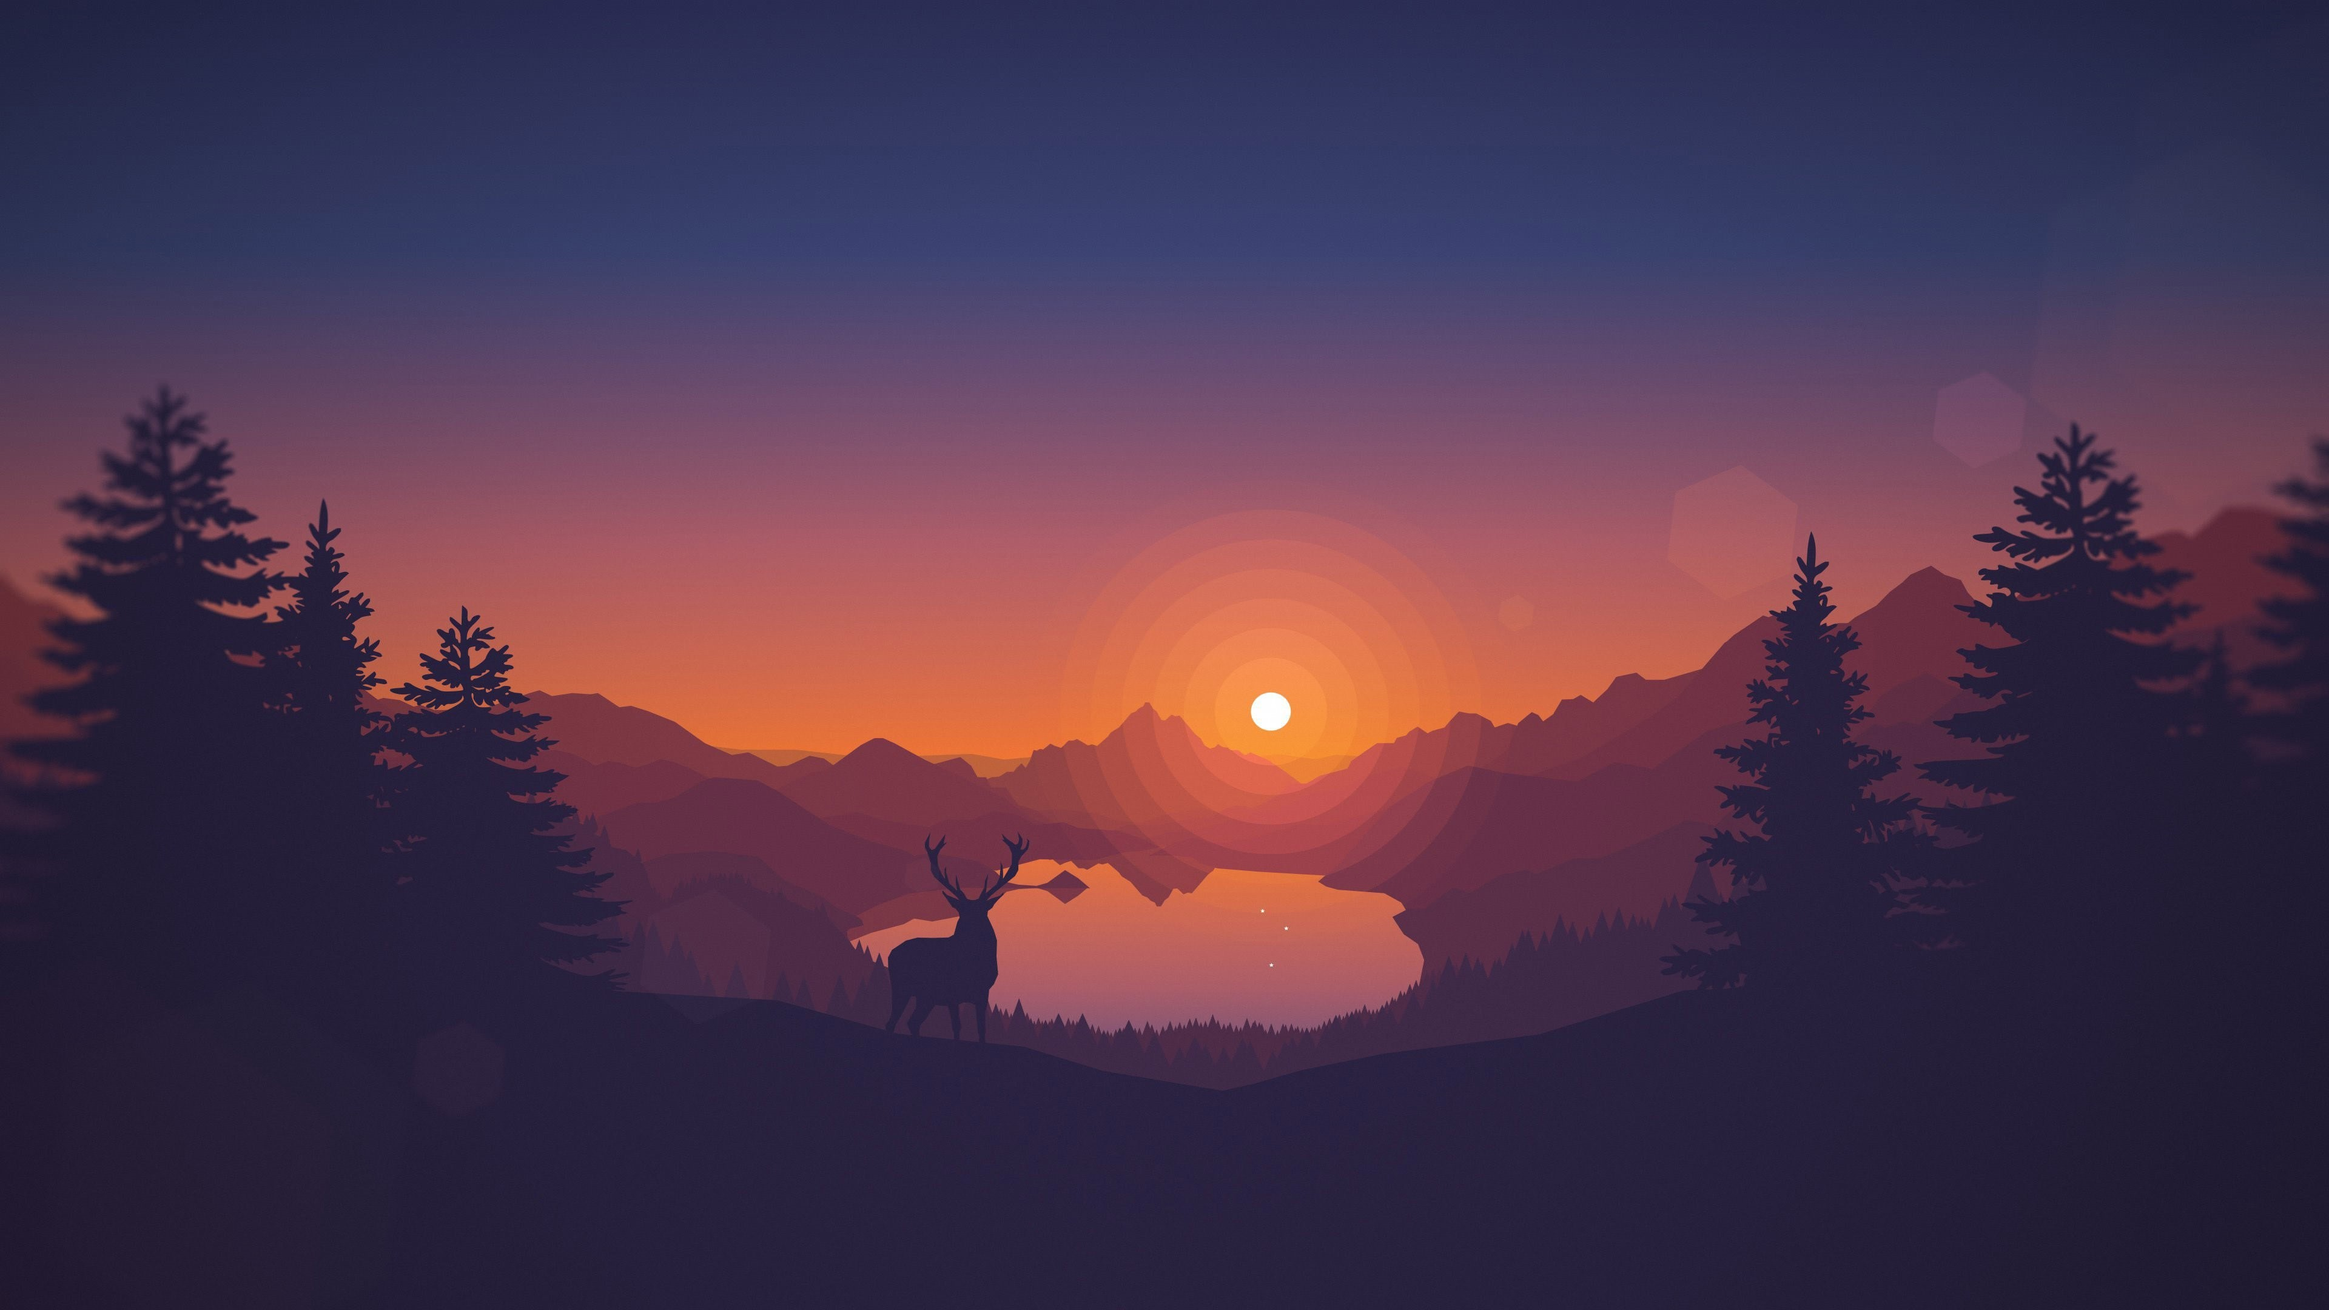
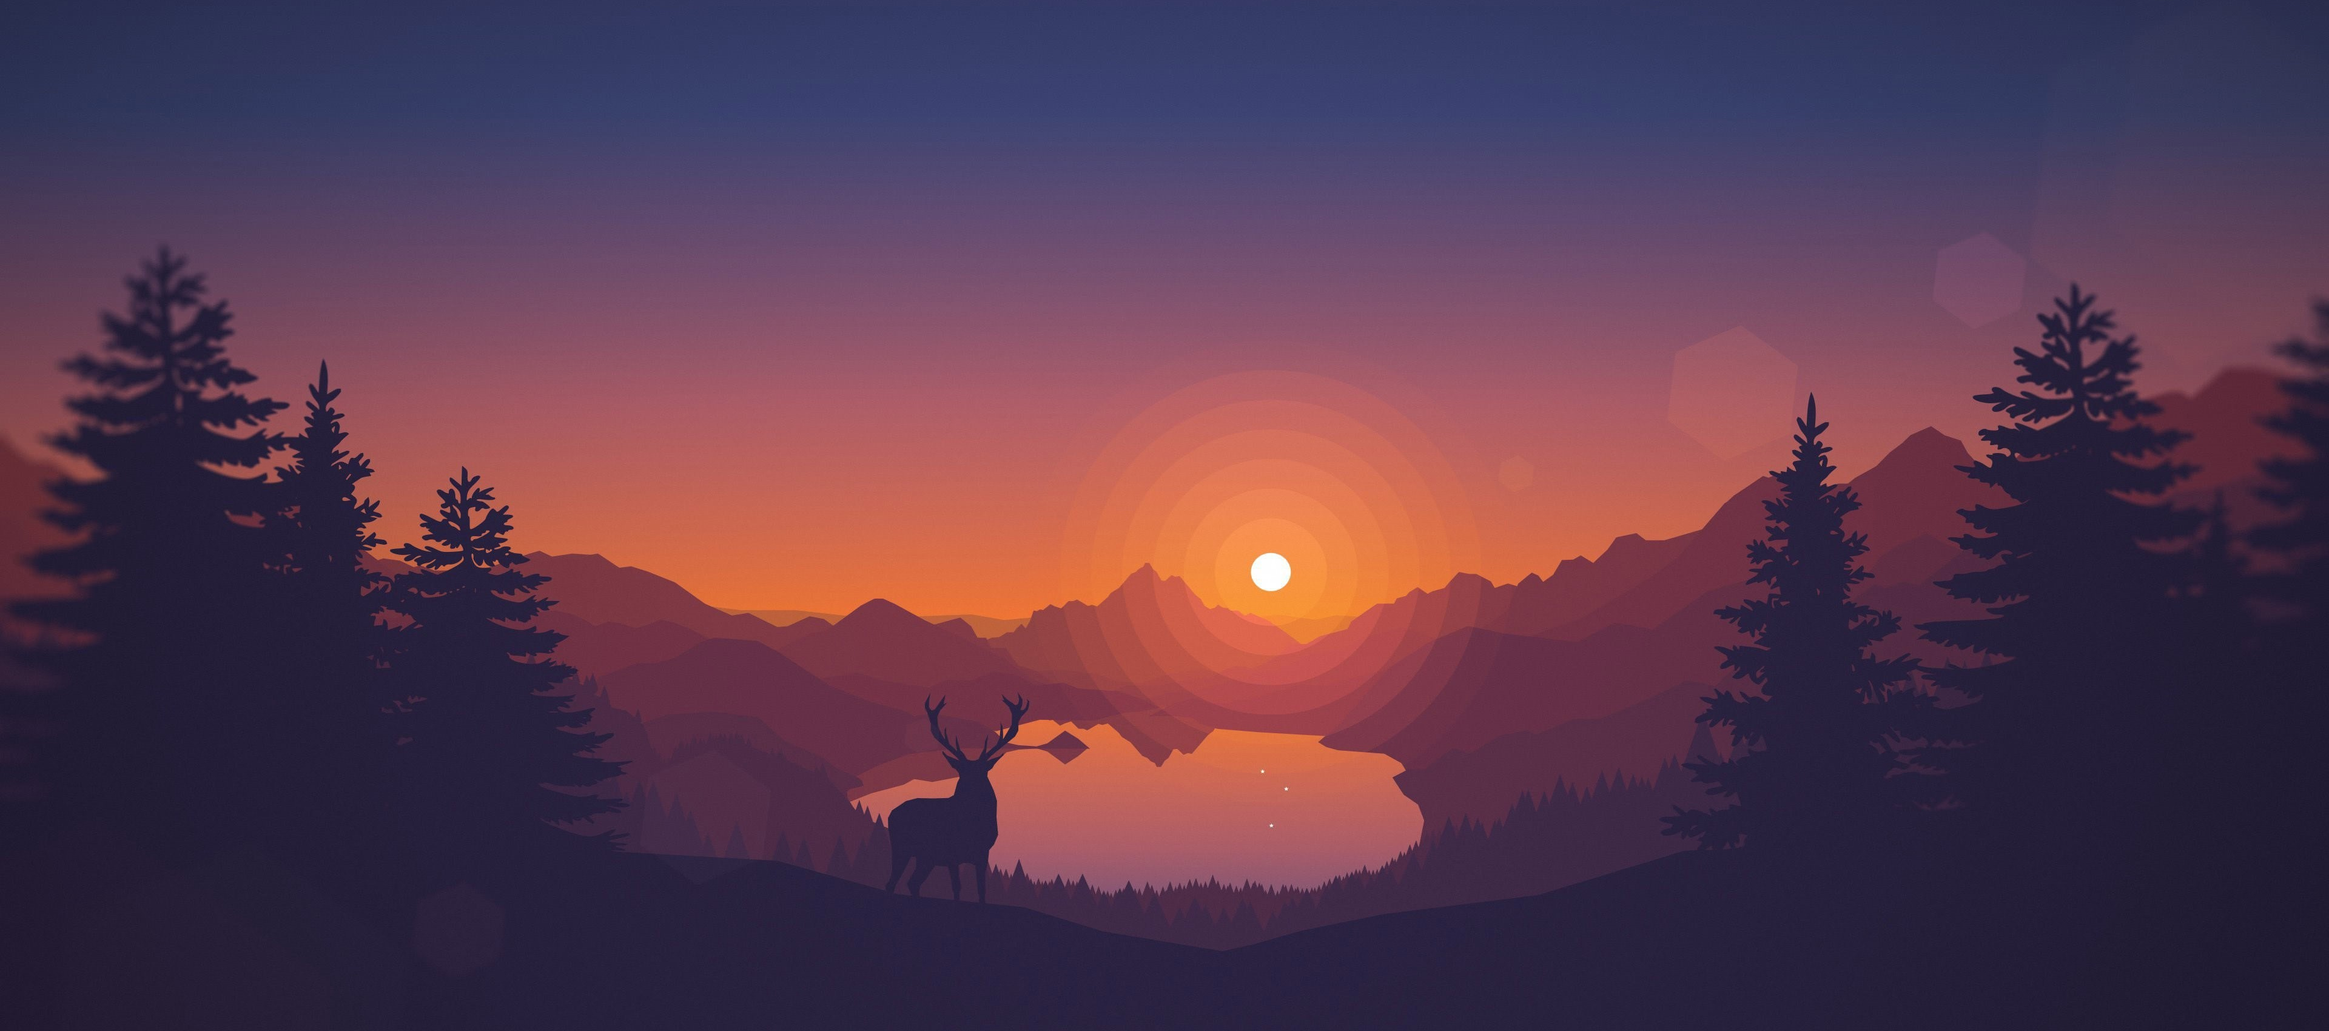
remove unnessecary code, tried to fix background image, made repeatable numbers into variables,qol improvments

diff --git a/style.css b/style.css
@@ -1,1 +1,1 @@
-@font-face{font-family:"Roboto Condensed";src:url(assets/fonts/RobotoCondensed-Regular.ttf)}@font-face{font-family:"Righteous";src:url(assets/fonts/Righteous-Regular.ttf)}#page,#subpage{display:flex;flex-direction:column;margin-top:0;background-attachment:fixed}#page{color:#dee0f7;text-align:center;font-family:"Roboto Condensed",Arial,sans-serif}#home-header #header{align-items:center;justify-content:center;display:flex;flex-direction:row;padding:1vw 0 5vw 0;top:0;column-gap:5vw;text-decoration:none;text-align:center;min-width:150px}.btn{color:#dee0f7;text-decoration:none}.btn:hover{text-decoration:underline}#home-button-left{margin-right:10vw;font-size:32px;max-width:70px;padding:15px 25px;text-align:center;font-family:Righteous,Arial,sans-serif}@media(max-width: 450px){#home-button-left{align-self:flex-start}}#home-button-right{margin-left:10vw;color:#0c070d;padding:15px 25px;border-radius:25px;text-align:center;align-self:center;justify-self:center;background-color:#dee0f7}@media(max-width: 450px){#home-button-right{align-self:flex-end}}#home-button-left,#home-button-right{display:flex !important;flex-direction:row !important}body{background-color:#b5aed6;margin:0;font-size:18px}.logo{position:fixed;bottom:0;left:0;z-index:1000;margin:5px;background-color:transparent;width:40px}.rotate{transition:transform ease-in-out .2s}.rotate:hover{transition:.7s;-webkit-transition:.7s;-moz-transition:.7s;-ms-transition:.7s;-o-transition:.7s;-webkit-transform:rotate(180deg);-moz-transform:rotate(180deg);-o-transform:rotate(180deg);-ms-transform:rotate(180deg);transform:scale(1.1) rotate(360deg)}#backtotop{position:fixed;bottom:0;right:0;margin:15px;z-index:100;transition:ease 300ms}footer{position:initial;right:0;bottom:0;left:0;padding:2.5rem;margin:fill;font-family:"Roboto Condensed",arial,sans-serif;color:#dee0f7;text-align:center;background-color:#b5aed6}.icon{align-content:center;text-align:center;align-self:center;align-items:center}a{user-select:none;-moz-user-select:none;-ms-user-select:none;-webkit-user-select:none}*{scroll-behavior:smooth}#background{object-fit:contain;position:fixed;left:50%;transform:translate(-50%, 0);z-index:-1;min-width:100%;height:81vh;margin:0}@media(max-height: 800px){#background{max-width:100%;height:unset}}@media(min-width: 2000px){#background{width:100%;height:unset;object-fit:fill}}#home-headline{font-family:Righteous,Arial,sans-serif;font-size:60px}#home-infobox{margin:0 0 11.5vw 0}#home-info{margin:5vh 30% 0 30%;mix-blend-mode:normal}@media(max-width: 450px){#home-info{margin:5vh 10% 0 10%}}.subjectbtn{display:inline-block;color:#0c070d;background-color:#dee0f7;margin:25px;padding:15px 50px;min-width:5vw;border-radius:25px;text-decoration:none}@media(max-width: 410px){.subjectbtn{margin:10px}}.subjectbtn:hover{text-decoration:underline}.home-sections-light{display:flex;max-height:500px;padding:90px;text-align:center;align-items:center;background-color:#b5aed6}@media(max-width: 1050px){.home-sections-light{padding:25px 0;max-height:20000px}}@media(max-width: 800px){.home-sections-light{flex-direction:column;padding:0;max-height:20000px}}@media(max-width: 430px){.home-sections-light{flex-direction:column;padding:25px;margin:0}}@media(min-width: 2000px){.home-sections-light{padding:125px 20vw}}.home-sections-dark{display:flex;max-height:500px;padding:90px;text-align:center;align-items:center;background-color:#9c92c8}@media(max-width: 1050px){.home-sections-dark{padding:25px 0;max-height:20000px}}@media(max-width: 800px){.home-sections-dark{flex-direction:column-reverse;padding:0;max-height:20000px}}@media(max-width: 430px){.home-sections-dark{flex-direction:column-reverse;padding:25px;margin:0}}@media(min-width: 2000px){.home-sections-dark{padding:125px 20vw}}.home-sections-light *,.home-sections-dark *{margin:0 90px}@media(max-width: 1400px){.home-sections-light *,.home-sections-dark *{padding:25px 0;margin:0 7vw;max-height:20000px}}@media(max-width: 800px){.home-sections-light *,.home-sections-dark *{flex-direction:column;padding:25px 0;margin:0 10vw;max-height:20000px}}@media(max-width: 430px){.home-sections-light *,.home-sections-dark *{flex-direction:column;padding:25px;margin:0}}.home-sections-light p,.home-sections-dark p{display:flex;flex-direction:column;align-items:center}.home-sections-light p .home-sections-button,.home-sections-dark p .home-sections-button{margin:20px 0;text-align:center;max-width:100px;min-width:75px;border-radius:2147483647px}@media(max-width: 1400px){.home-sections-light p .home-sections-button,.home-sections-dark p .home-sections-button{padding:15px 50px}}.home-sections-title{color:#594b95;font-size:22px;margin:0 0 20px 0}.home-sections-img{stroke:#594b95;stroke-width:400px;max-width:400px;aspect-ratio:1/1}.home-sections-dark img,.home-sections-light img{width:400px;border-radius:10px}@media(max-width: 500px){.home-sections-dark img,.home-sections-light img{width:200px}}/*# sourceMappingURL=style.css.map */
+@font-face{font-family:"Roboto Condensed";src:url(assets/fonts/RobotoCondensed-Regular.ttf)}@font-face{font-family:"Righteous";src:url(assets/fonts/Righteous-Regular.ttf)}#page,#subpage{display:flex;flex-direction:column;margin-top:0;background-attachment:fixed}#page{color:#dee0f7;text-align:center;font-family:"Roboto Condensed",Arial,sans-serif}#home-header #header{display:flex;align-items:center;justify-content:center;padding:1vw 0 5vw;column-gap:6rem;text-decoration:none;text-align:center;min-width:150px;max-width:2147483647px}@media(max-width: 500px){#home-header #header{flex-direction:column-reverse;align-items:flex-start;justify-content:flex-start}}.btn{color:#dee0f7;text-decoration:none}.btn:hover{text-decoration:underline}#home-button-left{margin-right:12.5rem;font-size:32px;max-width:70px;padding:15px 25px;text-align:center;font-family:Righteous,Arial,sans-serif}#home-button-right{margin-left:12.5rem;color:#0c070d;padding:15px 25px;border-radius:25px;text-align:center;background-color:#dee0f7}#home-button-left,#home-button-right{display:flex !important;flex-direction:row !important}body{background-color:#b5aed6;margin:0;font-size:18px}.logo{position:fixed;bottom:0;left:0;z-index:1000;margin:5px;background-color:transparent;width:40px}.rotate{transition:transform ease-in-out .2s}.rotate:hover{transition:.7s;-webkit-transition:.7s;-moz-transition:.7s;-ms-transition:.7s;-o-transition:.7s;-webkit-transform:rotate(180deg);-moz-transform:rotate(180deg);-o-transform:rotate(180deg);-ms-transform:rotate(180deg);transform:scale(1.1) rotate(360deg)}#backtotop{position:fixed;bottom:0;right:0;margin:15px;z-index:100;transition:ease 300ms}footer{position:initial;right:0;bottom:0;left:0;padding:2.5rem;margin:fill;font-family:"Roboto Condensed",arial,sans-serif;color:#dee0f7;text-align:center;background-color:#b5aed6}.icon{align-content:center;text-align:center;align-self:center;align-items:center}a{user-select:none;-moz-user-select:none;-ms-user-select:none;-webkit-user-select:none}*{scroll-behavior:smooth}#background{display:flex;align-self:center;position:fixed;z-index:-1;width:100%;aspect-ratio:16/9}@media(max-height: 800px){#background{max-width:100%;height:unset}}@media(min-width: 2000px){#background{margin:-250px 0 0 0}}@media(max-width: 800px){#background{width:unset;height:80vh}}@media(max-width: 500px){#background{width:unset;height:100vh}}#home-headline{font-family:Righteous,Arial,sans-serif;font-size:60px}#home-infobox{margin:0 0 11.5vw 0}#home-info{margin:5vh 30% 0 30%;mix-blend-mode:normal}@media(max-width: 500px){#home-info{margin:5vh 10% 0 10%}}.subjectbtn{display:inline-block;color:#0c070d;background-color:#dee0f7;margin:25px;padding:15px 50px;min-width:5vw;border-radius:25px;text-decoration:none}@media(max-width: 500px){.subjectbtn{margin:10px}}.subjectbtn:hover{text-decoration:underline}.home-sections-light{display:flex;max-height:500px;padding:80px 180px;text-align:center;align-items:center;background-color:#b5aed6}@media(max-width: 1050px){.home-sections-light{padding:25px 0;max-height:20000px}}@media(max-width: 800px){.home-sections-light{flex-direction:column;padding:0;max-height:20000px}}@media(max-width: 500px){.home-sections-light{flex-direction:column;padding:25px;margin:0}}@media(min-width: 2000px){.home-sections-light{padding:125px 20vw}}.home-sections-dark{display:flex;max-height:500px;padding:80px 180px;text-align:center;align-items:center;background-color:#9c92c8}@media(max-width: 1050px){.home-sections-dark{padding:25px 0;max-height:20000px}}@media(max-width: 800px){.home-sections-dark{flex-direction:column-reverse;padding:0;max-height:20000px}}@media(max-width: 500px){.home-sections-dark{flex-direction:column-reverse;padding:25px;margin:0}}@media(min-width: 2000px){.home-sections-dark{padding:125px 20vw}}.home-sections-light *,.home-sections-dark *{margin:0 90px}@media(max-width: 1400px){.home-sections-light *,.home-sections-dark *{padding:25px 0;margin:0 7vw;max-height:20000px}}@media(max-width: 800px){.home-sections-light *,.home-sections-dark *{flex-direction:column;padding:25px 0;margin:0 10vw;max-height:20000px}}@media(max-width: 500px){.home-sections-light *,.home-sections-dark *{flex-direction:column;padding:25px;margin:0}}.home-sections-light p,.home-sections-dark p{display:flex;flex-direction:column;align-items:center}.home-sections-light p .home-sections-button,.home-sections-dark p .home-sections-button{margin:20px 0;text-align:center;max-width:100px;min-width:75px;border-radius:2147483647px}@media(max-width: 1400px){.home-sections-light p .home-sections-button,.home-sections-dark p .home-sections-button{padding:15px 50px}}.home-sections-title{color:#594b95;font-size:22px;margin:0 0 20px 0}.home-sections-img{stroke:#594b95;stroke-width:400px;max-width:400px;aspect-ratio:1/1}.home-sections-dark img,.home-sections-light img{width:400px;border-radius:10px}@media(max-width: 500px){.home-sections-dark img,.home-sections-light img{width:200px}}/*# sourceMappingURL=style.css.map */

diff --git a/style.scss b/style.scss
@@ -1,6 +1,8 @@
-/*
-    Table of contents
-      1 Broad CSS
+// soni made this work, without soni this code would be nothing - soni howni (system operator for northern ireland)
+// https://haha.yessness.com/index.html#
+
+/* STYLESHIT TABLE OF CONTENTS
+    1 Broad CSS
         1.1 Imports
         1.2 Variables
         1.3 Cursor
@@ -13,7 +15,7 @@
         1.14 Icons
         1.15 Links
         1.16
-      2 Page Specific
+    2 Page Specific
         2.1 Home
         2.2 School
         2.3 Freetime
@@ -36,20 +38,26 @@
 
 // Variables
 
+// Colors
 $accent-light: #DEE0F7;
 $accent-dark: #594B95;
 $accent-light-purple: #B5AED6;
 $accent-middle-purple: #9C92C8;
 $accent-dark-purple: #0C070D;
 
+// Sizes
 $img-width: 400px !default;
+
+// Breakpoints
+$breakpoint: 500px;
+$breakpoint-large: 800px;
 
 // 1.4 Flex
 
 #page,
 #subpage
 {
-    display: flex; // Makes body flexbox becuase flex good
+    display: flex; // Makes body a flexbox becuase flex good
     flex-direction: column;
     margin-top: 0;
     background-attachment: fixed;
@@ -69,28 +77,30 @@ $img-width: 400px !default;
     font-family: "Roboto Condensed", Arial, sans-serif;
 }
 
-// 1.6 Header
+// 1.6 Header -------------------------------------------
 
 #home-header #header
 {
+    display: flex;
     align-items: center; // Centered content
     justify-content: center; // Centers content
-    display: flex;
-    flex-direction: row; // Sets flex direction (by default row)
-    padding: 1vw 0 5vw 0;
 
-    top: 0;
-    column-gap: 5vw; // Gap between colums
+    padding: 1vw 0 5vw;
+
+    column-gap: 6rem; // Gap between colums
     text-decoration: none;
     text-align: center;
 
     min-width: 150px;
+    max-width: 2147483647px; // Should be less, but littel is bumd TODO: Make this better
 
-    //// Responsiveness
-    //@media (max-width: 450px)
-    //{
-    //    flex-direction: column-reverse;
-    //}
+    // Responsiveness
+    @media (max-width: $breakpoint)
+    {
+        flex-direction: column-reverse;
+        align-items: flex-start; // Centered content
+        justify-content: flex-start; // Centers content
+    }
 }
 
 //#home-header :nth-child(1) { order: 1; }
@@ -110,9 +120,10 @@ $img-width: 400px !default;
     text-decoration: underline;
 }
 
+// fuck you - soni howni (system operator for northern ireland)
 #homebtn
 {
-    @media (max-width: 450px)
+    @media (max-width: $breakpoint)
     {
 
     }
@@ -120,7 +131,7 @@ $img-width: 400px !default;
 
 #schoolbtn
 {
-    @media (max-width: 450px)
+    @media (max-width: $breakpoint)
     {
 
     }
@@ -128,7 +139,7 @@ $img-width: 400px !default;
 
 #personalbtn
 {
-    @media (max-width: 450px)
+    @media (max-width: $breakpoint)
     {
 
     }
@@ -136,34 +147,22 @@ $img-width: 400px !default;
 
 #home-button-left
 {
-    margin-right: 10vw;
+    margin-right: 12.5rem;
     font-size: 32px;
     max-width: 70px;
     padding: 15px 25px;
     text-align: center;
     font-family: Righteous, Arial, sans-serif;
-
-    @media (max-width: 450px)
-    {
-        align-self: flex-start;
-    }
 }
 
 #home-button-right
 {
-    margin-left: 10vw;
+    margin-left: 12.5rem;
     color: #0C070D;
     padding: 15px 25px;
     border-radius: 25px;
     text-align: center;
-    align-self: center;
-    justify-self: center;
     background-color: $accent-light; // Sets color to variable
-
-    @media (max-width: 450px)
-    {
-        align-self: flex-end;
-    }
 }
 
 #home-button-left, #home-button-right
@@ -280,20 +279,21 @@ a
 
 #background
 {
-    object-fit: contain;
+    display: flex;
+    align-self: center;
+
+
 
     position: fixed;
-    left: 50%;
-    transform: translate(-50%, 0); // Centers image with (line over) and (line under)
+    //left: 50%;
+    //transform: translate(-50%, 0); // Centers image with (line over) and (line under)
     z-index: -1;
 
-    min-width: 100%;
-    height: 81vh;
-    margin: 0;
-
+    width: 100%;
+    aspect-ratio: 16/9;
 
     // When viewport height is less than 800 do this
-    @media (max-height: 800px)
+    @media (max-height: $breakpoint-large)
     {
         max-width: 100%;
         height: unset;
@@ -301,14 +301,18 @@ a
 
     @media (min-width: 2000px)
     {
-        width: 100%;
-        height: unset;
-        object-fit: fill;
+        margin: -250px 0 0 0;
     }
 
-    //@media (max-width: 500px) {
-    //    opacity: 0;
-    //}
+    @media (max-width: $breakpoint-large) {
+        width: unset;
+        height: 80vh;
+    }
+
+    @media (max-width: $breakpoint) {
+        width: unset;
+        height: 100vh;
+    }
 }
 
 #home-headline
@@ -327,7 +331,7 @@ a
     margin: 5vh 30% 0 30%;
     mix-blend-mode: normal; // Mixes colors for smoother transition
 
-    @media (max-width: 450px)
+    @media (max-width: $breakpoint)
     {
         margin: 5vh 10% 0 10%;
     }
@@ -344,7 +348,7 @@ a
     border-radius: 25px;
     text-decoration: none;
 
-    @media (max-width: 410px)
+    @media (max-width: $breakpoint)
     {
         margin: 10px;
     }
@@ -355,21 +359,14 @@ a
     text-decoration: underline;
 }
 
-#subjectbtn-left
-{
-
-}
-
-.home-sections > *
-{
-
-}
+// TODO: Remove this comment
+// i removed some code here - soni howni (system operator for northern ireland)
 
 .home-sections-light
 {
     display: flex; // Makes box flex
     max-height: 500px;
-    padding: 90px;
+    padding: 80px 180px;
     text-align: center;
     align-items: center;
     background-color: $accent-light-purple;
@@ -381,14 +378,14 @@ a
         max-height: 20000px;
     }
 
-    @media (max-width: 800px)
+    @media (max-width: $breakpoint-large)
     {
         flex-direction: column;
         padding: 0;
         max-height: 20000px;
     }
 
-    @media (max-width: 430px)
+    @media (max-width: $breakpoint)
     {
         flex-direction: column;
         padding: 25px;
@@ -405,7 +402,7 @@ a
 {
     display: flex;
     max-height: 500px;
-    padding: 90px;
+    padding: 80px 180px;
     text-align: center;
     align-items: center;
     background-color: $accent-middle-purple;
@@ -417,14 +414,14 @@ a
         max-height: 20000px;
     }
 
-    @media (max-width: 800px)
+    @media (max-width: $breakpoint-large)
     {
         flex-direction: column-reverse;
         padding: 0;
         max-height: 20000px;
     }
 
-    @media (max-width: 430px)
+    @media (max-width: $breakpoint)
     {
         flex-direction: column-reverse;
         padding: 25px;
@@ -449,7 +446,7 @@ a
         max-height: 20000px;
     }
 
-    @media (max-width: 800px)
+    @media (max-width: $breakpoint-large)
     {
         flex-direction: column;
         padding: 25px 0;
@@ -457,7 +454,7 @@ a
         max-height: 20000px;
     }
 
-    @media (max-width: 430px)
+    @media (max-width: $breakpoint)
     {
         flex-direction: column;
         padding: 25px;
@@ -507,7 +504,7 @@ a
     width: $img-width;
     border-radius: 10px;
 
-    @media (max-width: 500px) {
+    @media (max-width: $breakpoint) {
         width: 200px;
     }
 }
@@ -838,7 +835,7 @@ body
 }
 
 !* Handle *!
-::-webkit-scrollbar-thumb
+::-webkit-scrollbar-thumb your face is pretty cringe if you ask me did you know that littel that your face is cringe
 {
     background: rgba(242, 78, 112, 1); !* Scrollbar thumb color *!
     //border-radius: 2147483647px; !* Makes the thumb piece have round edges *!

diff --git a/index.html b/index.html
@@ -35,7 +35,7 @@
 
 <body id="page"> <!-- Body tag, Makes Body non-scrollable -->
 
-<img src="assets/images/minimalist_trim1.jpg" id="background" alt="background image">
+<img src="assets/images/minimalist.jpg" id="background" alt="background image">
 
 <div class="topbar"></div>
 
